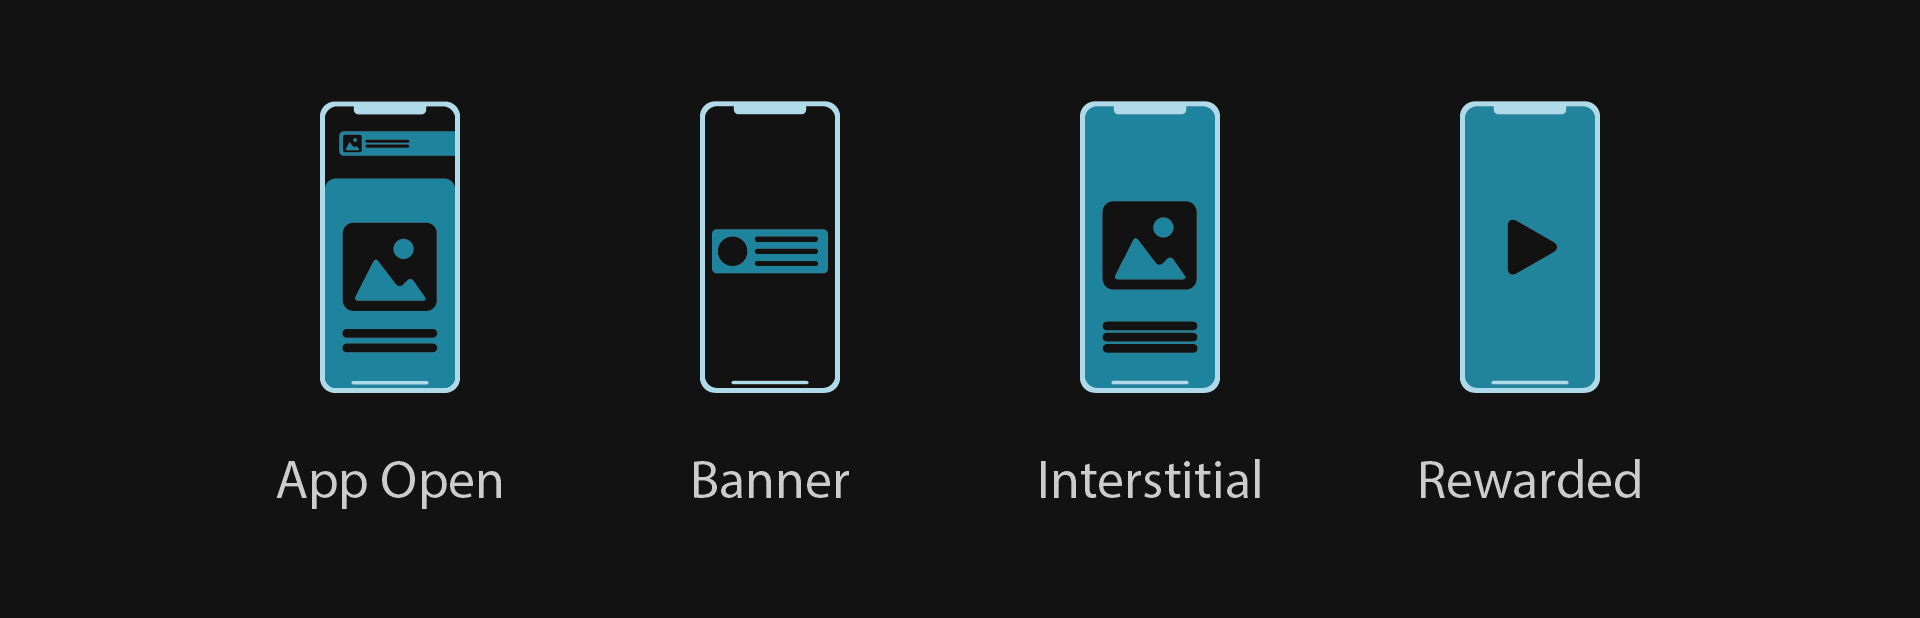
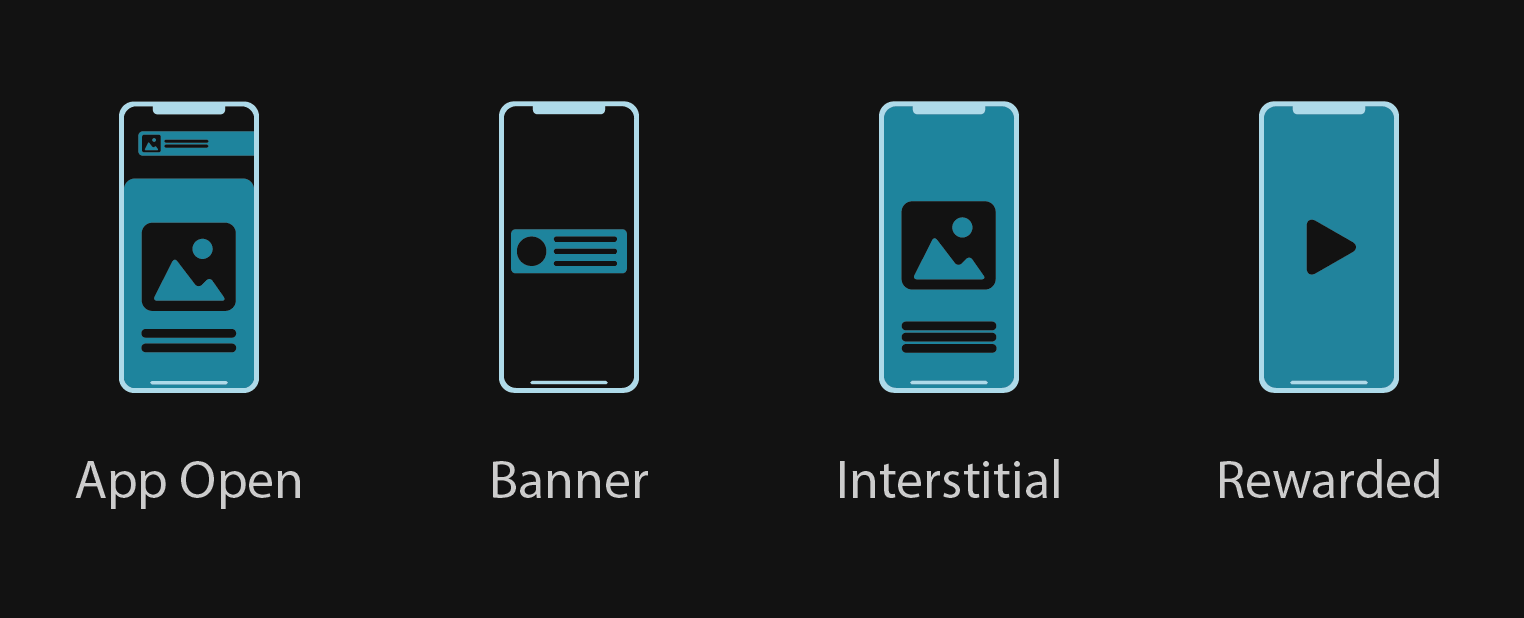
Reduce image size

diff --git a/index.html b/index.html
@@ -137,7 +137,7 @@
 		right:0;
 		background: none;
 		border: none;
-		color: red;
+		color: #bF7F7F;
 		cursor: pointer;
 	}
 	
